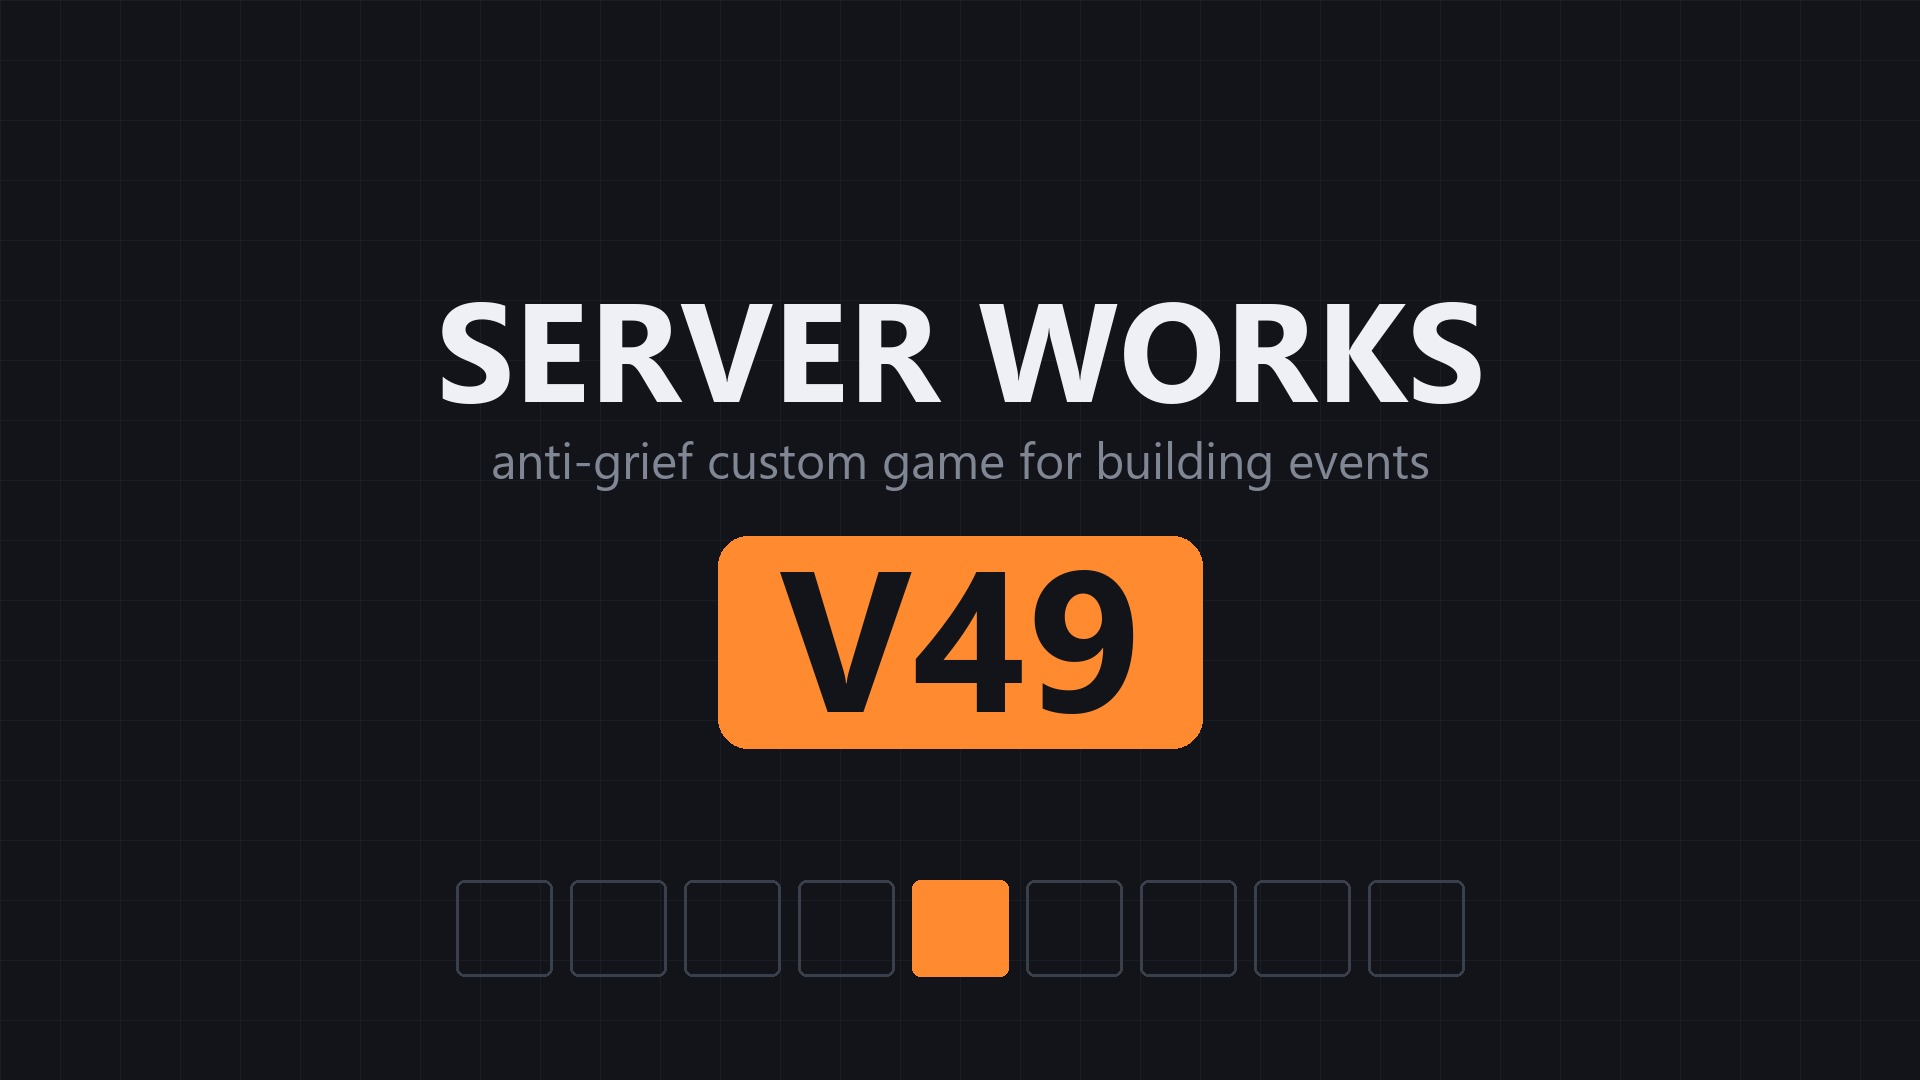
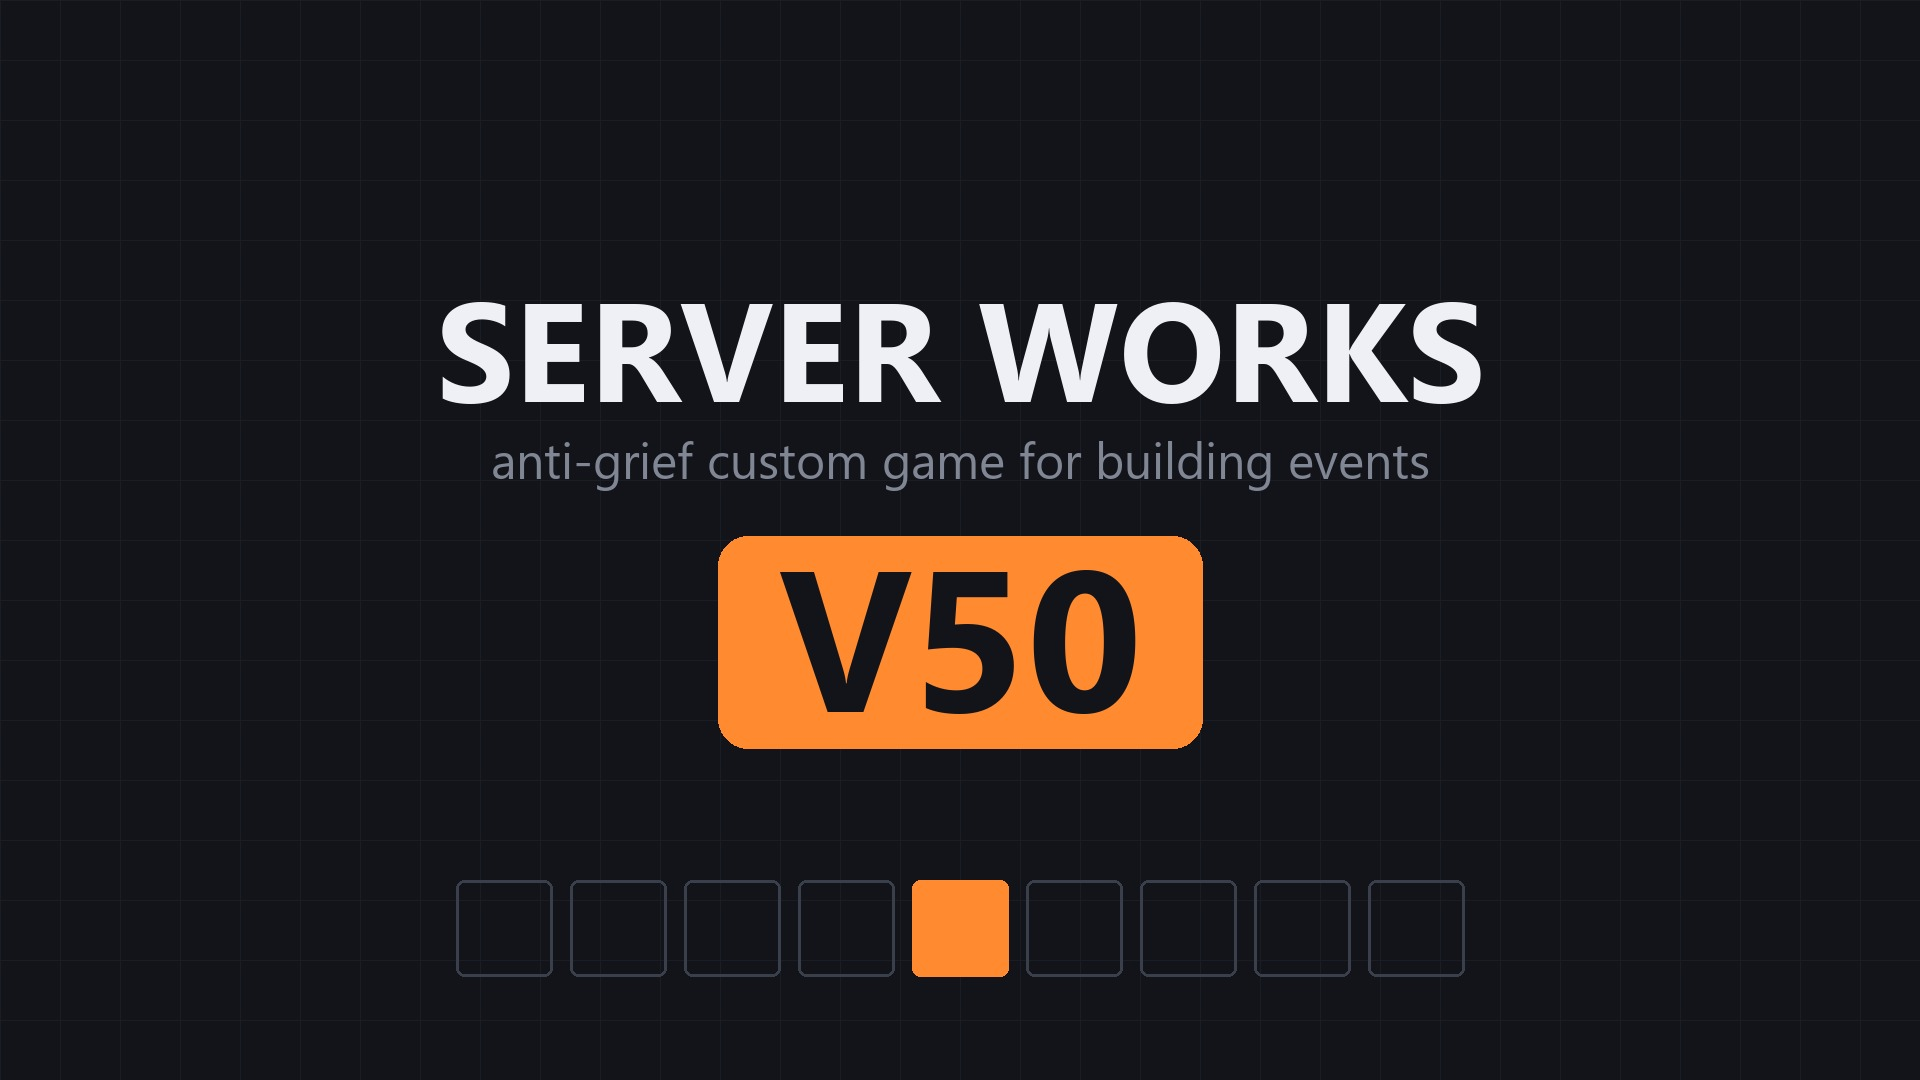
V50: the alarm stops locking, and a save on every phase boundary
AUTO LOCKDOWN OFF BY DEFAULT, on the owner's call. A false alarm that
shouts is a nuisance; a false alarm that freezes twenty people mid-build
in front of a stream is worse than the griefing it was guarding against,
and the alarm cannot tell somebody clearing their own work from somebody
wrecking yours. It still announces and still logs; /set alarmlock on arms
it, and the lockdown preset still does. Migrated, since a changed default
reaches nobody who has already played.

"I cant build while standing on protected blocks which sucks" -- that was
V42. A claimed plot with nobody standing IN it is locked, which is what
stops somebody on the road reaching over your work, but the only thing
that reopened it was standing inside the plot or on its own seams. Step
onto a road or the plaza and your own plot locked behind you while you
were looking at it.

It is a DISTANCE now, not a zone: Plots.HOLD_RANGE, twelve blocks. Cheap
by construction -- it only looks at the plots on your own team, one for
almost everybody, never every plot in the city. The check covers standing
on it, just off the edge, out at the limit, across the city, and a
stranger standing on your plot holding nothing open.

A SNAPSHOT AT EVERY PHASE BOUNDARY: prepstart, buildstart, buildend and
eventend, on top of the autosave timer. An autosave lands wherever the
clock happens to be; these land on the moments you would want to roll back
TO. Each is taken before the phase's protection change, so buildend
[…]

Changed region(s): [[0.4688, 0.5194, 0.5938, 0.6722]]

diff --git a/dev/test_logic.py b/dev/test_logic.py
@@ -1054,7 +1054,6 @@ def a_body_is_located_by_where_it_is_not_by_its_origin():
     P.sv_claim(plots, 34, "OWNER")
     plots["zoneOpen"] = lua.table_from({})
     plots["zoneHeld"] = lua.table_from({})
-    assert P.sv_bodyIsOpen(plots, body) is not "sweep", "still sweep"
     assert P.sv_bodyIsOpen(plots, body) is False, (
         "a claimed plot with nobody on it must be locked, not sweepable")
 
@@ -1063,6 +1062,69 @@ def a_body_is_located_by_where_it_is_not_by_its_origin():
         src = io.open(SCRIPTS / name, encoding="utf-8").read()
         assert "sv_locate( body.worldPosition )" not in src, (
             f"{name} locates a body by its origin again -- use sv_bodyZone")
+
+
+def standing_near_your_own_plot_keeps_it_open():
+    """You may stand off your plot and it stays yours to build on.
+
+    REPORTED: "I cant build while standing on protected blocks which sucks."
+
+    V42 locked a claimed plot with nobody standing IN it -- which is what stops
+    somebody on the road reaching over your work -- but the only thing that
+    reopened it was standing inside the plot or on one of its own seams. Step
+    onto a ROAD or onto the plaza and your own plot locked behind you while you
+    were looking at it.
+
+    It is a distance now, not a zone. A road being protected ground has nothing
+    to do with whether the plot next to it is yours.
+    """
+    lua, plots = plots_lua({"cols": 10, "rows": 10, "roadevery": 3, "roadwidth": 6})
+    P = lua.globals().Plots
+    L = lua.globals().Layout
+    B, RANGE = float(P.BLOCK), float(P.HOLD_RANGE)
+
+    MINE = 1
+    P.sv_claim(plots, MINE, "OWNER")
+    bx, by = L.plotCentre(plots["layout"], MINE)
+    r = L.plotRect(plots["layout"], 0, 0)
+    assert r is not None
+
+    def body_on_my_plot():
+        return lua.table_from({"worldPosition": lua.table_from(
+            {"x": float(bx) * B, "y": float(by) * B, "z": 1.5})})
+
+    def held_from(block_x, block_y):
+        plots["zoneOpen"] = lua.table_from({})
+        plots["zoneHeld"] = lua.table_from({})
+        P.sv_holdNearby(plots, "OWNER", lua.table_from(
+            {"x": block_x * B, "y": block_y * B, "z": 1.5}))
+        return P.sv_bodyIsOpen(plots, body_on_my_plot())
+
+    # standing on it
+    assert held_from(float(bx), float(by)) is True, "standing on your own plot locked it"
+
+    # standing just off the edge -- the road, the seam, wherever
+    edge = float(r["x"]) - 2
+    assert held_from(edge, float(by)) is True, (
+        "standing two blocks off the edge of your own plot locked it -- that is "
+        "the report, and a road being protected has nothing to do with it")
+
+    # still open right out to the limit
+    assert held_from(float(r["x"]) - RANGE, float(by)) is True, (
+        f"standing {RANGE} blocks away should still hold it")
+
+    # but not from the far side of the city
+    assert held_from(float(r["x"]) - RANGE - 20, float(by)) is False, (
+        "a claimed plot stayed open with its owner nowhere near it -- anybody "
+        "could reach over it")
+
+    # and somebody else standing next to it holds nothing
+    plots["zoneOpen"] = lua.table_from({})
+    plots["zoneHeld"] = lua.table_from({})
+    P.sv_holdNearby(plots, "SOMEBODY-ELSE", lua.table_from(
+        {"x": float(bx) * B, "y": float(by) * B, "z": 1.5}))
+    assert P.sv_bodyIsOpen(plots, body_on_my_plot()) is False, (
+        "a stranger standing on somebody's plot held it OPEN")
 
 
 def you_can_only_build_on_ground_that_is_yours():
@@ -1540,6 +1602,80 @@ def a_zero_minute_prep_starts_building_at_once():
     E.sv_start(ev, 0, 30, 5000)
     assert ev["phase"] == "build"
     assert E.sv_buildAllowed(ev) is True
+
+
+def the_alarm_shouts_but_does_not_lock_by_default():
+    """alarmlock is OFF by default, on the owner's call.
+
+    "by default the auto lockdown shall be off."
+
+    Right call. A false alarm that shouts is a nuisance; a false alarm that
+    freezes twenty people mid-build in front of a stream is worse than the
+    griefing it was guarding against -- and the alarm cannot tell somebody
+    clearing their own work from somebody wrecking yours.
+    """
+    lua = fresh("Settings.lua")
+    lua.globals().Settings.Sv_Load(False)
+    S = lua.globals().Settings
+
+    assert S.Get("alarmlock") is False, (
+        "the grief alarm still locks the world by itself")
+    assert S.Get("alarmdrop") is not None, "the alarm has no threshold at all"
+
+    # it must still ANNOUNCE -- turning off the lock is not turning off the alarm
+    world = io.open(SCRIPTS / "World.lua", encoding="utf-8").read()
+    fn = world[world.index("function World.sv_checkGriefAlarm"):]
+    fn = fn[:fn.index(chr(10) + "end" + chr(10))]
+    assert "sv_broadcast" in fn and "GRIEF ALARM" in fn, (
+        "the alarm no longer says anything, which is not what off-by-default means")
+    assert 'Settings.Get( "alarmlock" )' in fn, (
+        "the lock is not behind the setting")
+
+    # and a host who wants it can still have it -- at least one preset arms it.
+    # Searched over the whole file rather than a window after the word
+    # "lockdown", which matches the help text long before it matches the preset.
+    src = io.open(SCRIPTS / "Settings.lua", encoding="utf-8").read()
+    assert "alarmlock = true" in src, (
+        "no preset arms the automatic lock any more, so a host who wants an "
+        "unattended server has to set it by hand")
+
+
+def every_phase_boundary_takes_a_snapshot():
+    """prep start, build start, build end, buffer end -- each one saves.
+
+    "the save shall happen on those times: prep time start, build time start,
+    build time end, buffer end. all those shall happen besides the auto saving."
+
+    Better than a timer alone: an autosave lands wherever the clock happens to
+    be, but these land on the moments you would actually want to roll back TO --
+    before anyone built, the starting line, the builds exactly as the clock
+    stopped them, and the finished event.
+    """
+    import re
+    world = io.open(SCRIPTS / "World.lua", encoding="utf-8").read()
+    table = world[world.index("local PHASE_SNAPSHOT = {"):]
+    table = table[:table.index("}")]
+
+    for phase, label in [("prep", "prepstart"), ("build", "buildstart"),
+                         ("buffer", "buildend"), ("ended", "eventend")]:
+        assert re.search(phase + r'\s*=\s*"' + label + '"', table), (
+            f"the {phase} phase does not take a {label} snapshot")
+
+    # and it must fire before the protection change, or the buffer snapshot
+    # records a world that has already been shut rather than the builds as they
+    # stood when the clock stopped
+    fn = world[world.index("function World.sv_e_swEventPhase"):]
+    fn = fn[:fn.index(chr(10) + "end")]
+    take = fn.index("sv_beginCapture")
+    lock = fn.index("sv_setMode")
+    assert take < lock, (
+        "the phase snapshot is taken after the protection change -- it would "
+        "record the locked world, not the one that just finished")
+
+    # exactly one capture per phase change: the old hard-coded eventend one had
+    # to go or `ended` would start two on top of each other
+    assert fn.count("sv_beginCapture") == 1, (
+        f"{fn.count('sv_beginCapture')} captures in one phase change")
 
 
 def a_dead_event_does_not_resurrect_itself_on_every_load():
@@ -2465,6 +2601,8 @@ def main():
           buffer_time_lets_you_polish_but_not_place_or_break)
     check("plots: a body is located by where it is, not by its origin",
           a_body_is_located_by_where_it_is_not_by_its_origin)
+    check("plots: standing near your own plot keeps it open",
+          standing_near_your_own_plot_keeps_it_open)
     check("plots: you can only build on ground that is yours",
           you_can_only_build_on_ground_that_is_yours)
     check("plots: junk outside the city stays clearable", outside_the_city_is_sweepable)
@@ -2493,6 +2631,10 @@ def main():
     check("event: prep then build then ended", an_event_runs_prep_then_build_then_ends)
     check("event: zero prep starts building at once", a_zero_minute_prep_starts_building_at_once)
     check("event: the clock survives a restart", the_clock_survives_a_restart)
+    check("protection: the alarm shouts but does not lock by default",
+          the_alarm_shouts_but_does_not_lock_by_default)
+    check("event: every phase boundary takes a snapshot",
+          every_phase_boundary_takes_a_snapshot)
     check("event: a dead event does not resurrect itself on every load",
           a_dead_event_does_not_resurrect_itself_on_every_load)
     check("event: pausing stops the clock", pausing_stops_the_clock)

diff --git a/docs/CHANGELOG.md b/docs/CHANGELOG.md
@@ -10,6 +10,60 @@ was most of them.
 
 ---
 
+## V50 -- the alarm stops locking, and a save on every phase boundary
+
+### The automatic lockdown is off by default
+
+*"by default the auto lockdown shall be off."*
+
+Right call, and worth the reasoning: a false alarm that shouts is a nuisance; a
+false alarm that **freezes twenty people mid-build in front of a stream** is
+worse than the griefing it was guarding against -- and the alarm cannot tell
+somebody clearing their own work from somebody wrecking yours.
+
+It still announces and still logs. `/set alarmlock on` arms it, and the
+`lockdown` preset still does. A migration turns it off for anyone who has already
+played, since a changed default reaches nobody.
+
+### "I cant build while standing on protected blocks which sucks"
+
+That was V42's doing. A claimed plot with nobody standing **in** it is locked --
+which is what stops somebody on the road reaching over your work -- but the only
+thing that reopened it was standing inside the plot or on one of its own seams.
+Step onto a **road**, or onto the plaza, and your own plot locked behind you
+while you were looking at it.
+
+It is a **distance** now, not a zone: `Plots.HOLD_RANGE`, twelve blocks. You are
+next to your own land or you are not, and a road being protected ground has
+nothing to do with whether the plot beside it is yours. Cheap by construction --
+it only ever looks at the plots on your own team, which is one for almost
+everybody, never at every plot in the city.
+
+The check covers all four cases: standing on it, standing just off the edge,
+standing out at the limit, and standing across the city -- plus a stranger
+standing on your plot, who holds nothing open.
+
+### A snapshot at every phase boundary
+
+*"the save shall happen on those times: prep time start, build time start, build
+time end, buffer end. all those shall happen besides the auto saving."*
+
+| when | named |
+|---|---|
+| prep begins | `prepstart` |
+| build begins | `buildstart` |
+| build ends | `buildend` |
+| the event ends | `eventend` |
+
+Better than a timer alone, and it is worth saying why: an autosave lands wherever
+the clock happens to be, but these land on the moments you would want to roll
+back **to**. Each is taken *before* the phase's protection change, so `buildend`
+records the builds as they stood when the clock stopped rather than the world
+after it was shut -- and a check asserts that ordering, because it is the kind of
+thing that would silently reverse.
+
+---
+
 ## V49 -- the Import Lift, and the reason the cleaner had no name
 
 *"make a new lift called import lift that is just regular lift just with the

diff --git a/docs/ANTI-GRIEF.md b/docs/ANTI-GRIEF.md
@@ -99,8 +99,15 @@ and not the previous sample). If the count has fallen by `alarmdrop`
 
 1. writes `GRIEF ALARM: N shapes lost` to the log,
 2. announces `*** N blocks just disappeared ***` to everyone,
-3. and if `alarmlock` is on (it is by default) **locks the whole world** and tells
-   the host how to roll back.
+3. and if `alarmlock` is on -- **off by default** -- locks the whole world and
+   tells the host how to roll back.
+
+**The automatic lock is off by default, deliberately.** A false alarm that shouts
+is a nuisance; a false alarm that freezes twenty people mid-build in front of a
+stream is worse than the griefing it was guarding against, and the alarm cannot
+tell somebody clearing their own work from somebody wrecking yours. It still
+announces, still logs, and `/set alarmlock on` arms it for an unattended
+server -- which is the case it was really written for.
 
 Ghosts are excluded from the count — a blueprint preview appearing and vanishing
 would otherwise swing the total by the size of a whole creation and trip it.
@@ -112,8 +119,23 @@ public stream event.** Nobody catches that by watching, because the person
 running the event is running the event. The alarm does not need anyone watching,
 and it stops the bleeding by itself.
 
-Recovery is the other half: `/autosave` rotates snapshots, ending an event takes
-one automatically, and `/restore` puts a world or a single plot back.
+Recovery is the other half, and it is the half that matters most now the lock is
+off by default. Snapshots are taken at **every phase boundary** as well as on the
+autosave timer:
+
+| when | named |
+|---|---|
+| prep begins | `prepstart` -- before anybody has touched anything |
+| build begins | `buildstart` -- the starting line |
+| build ends | `buildend` -- the builds exactly as the clock stopped them |
+| the event ends | `eventend` -- the final state, after the buffer |
+
+Those are the moments you would actually want to roll back *to*, which a timer
+alone cannot give you: an autosave lands wherever the clock happens to be. Each
+is taken **before** the phase's protection change, so `buildend` records the
+builds as they stood rather than the world after it was shut.
+
+`/restore <name>` puts a whole world or a single plot back.
 
 ---
 
